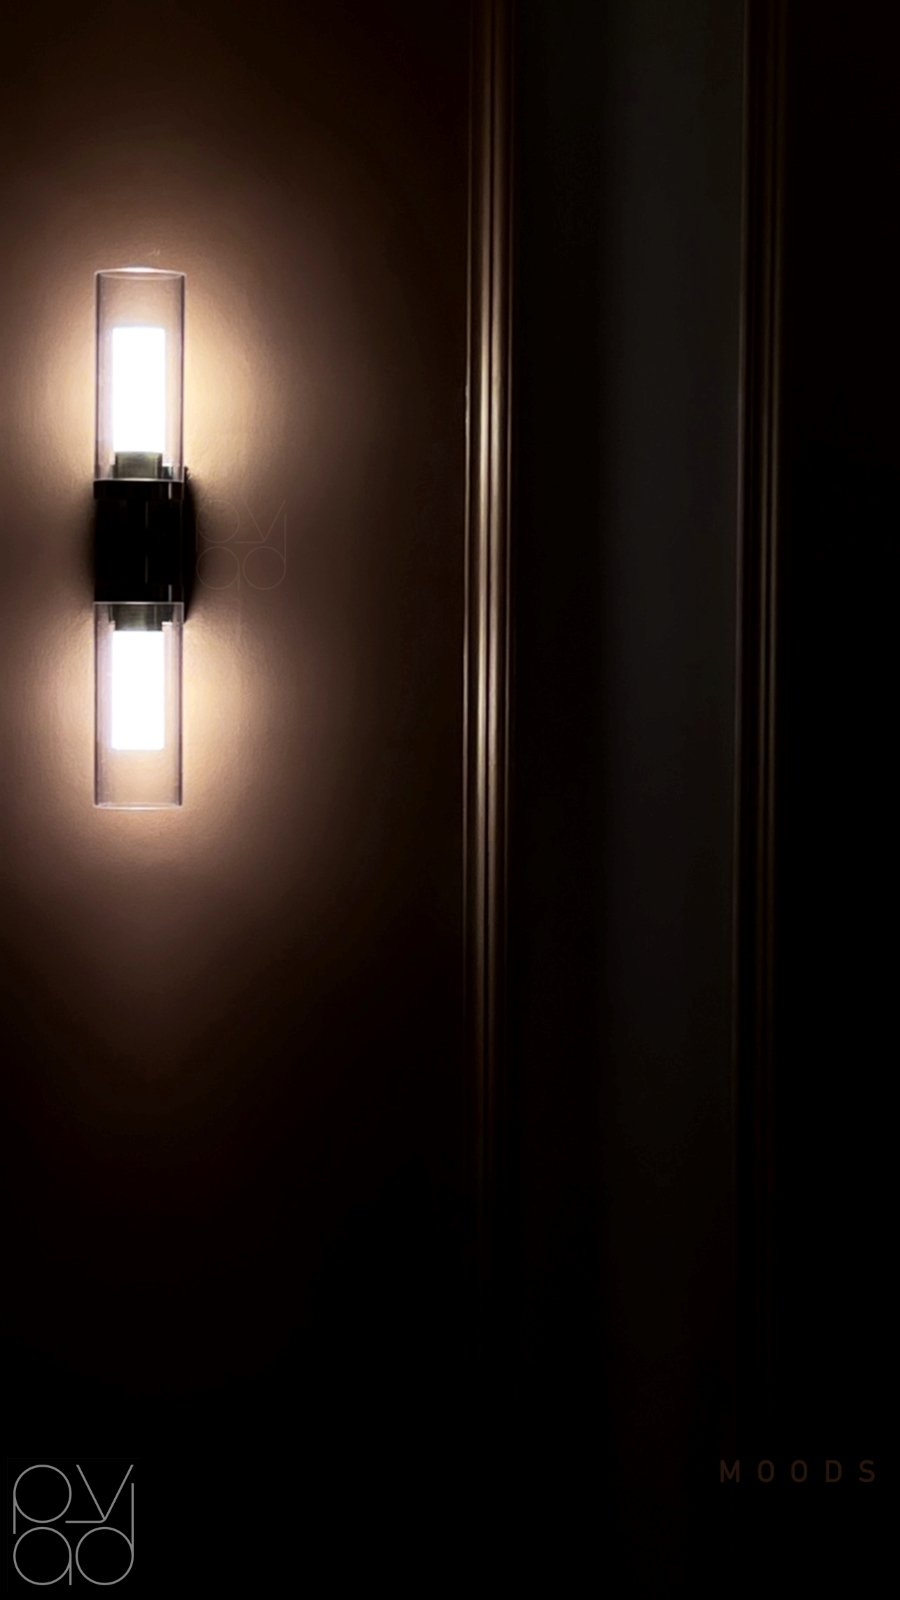
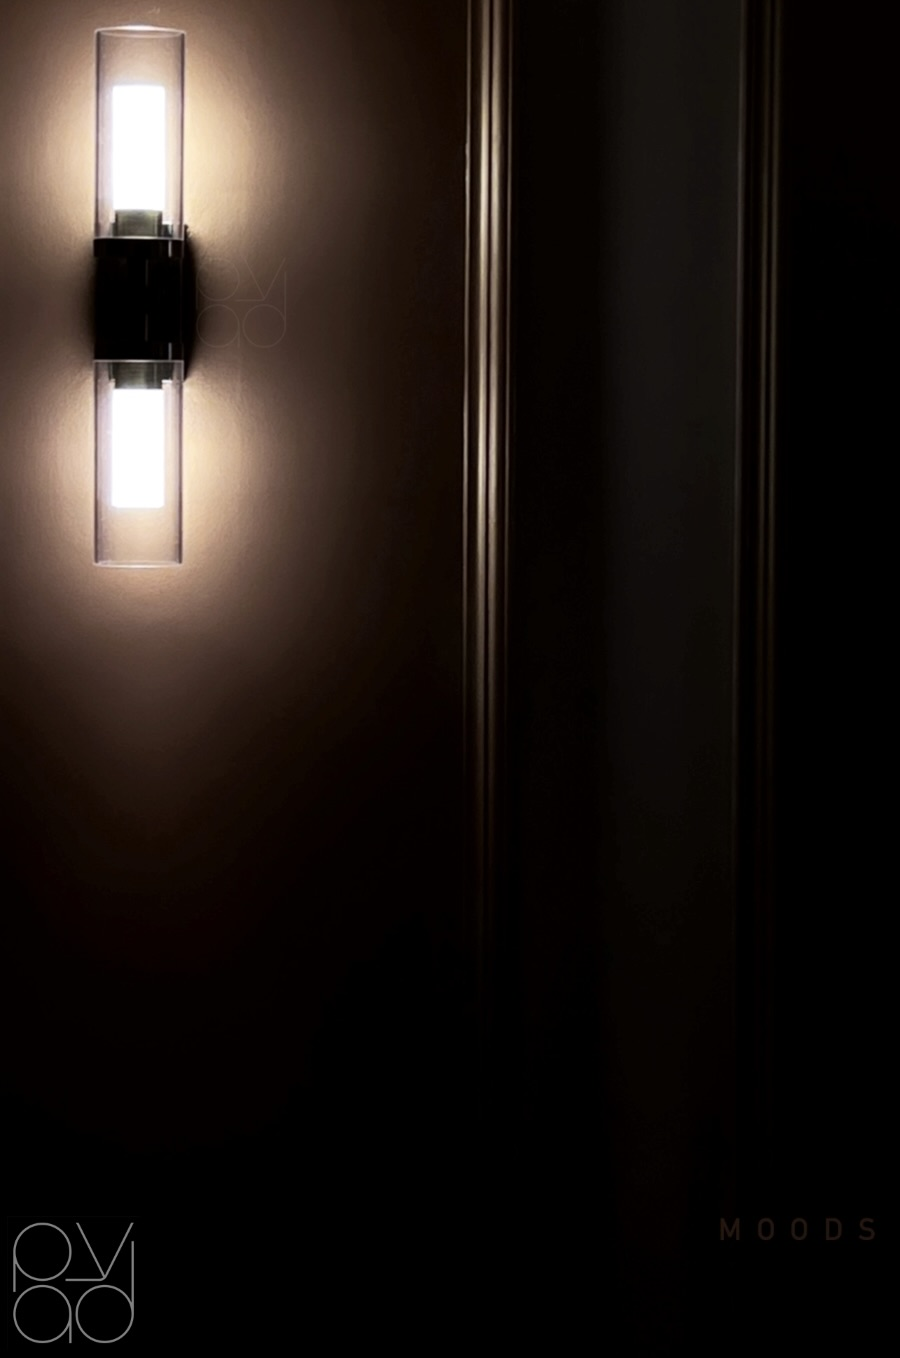
Updated the image fit part and enabled modal gallery view

diff --git a/index.html b/index.html
@@ -21,7 +21,7 @@
     <link rel="stylesheet" href="css/tooplate-style.css">   
 
     <script src="https://cdn.jsdelivr.net/npm/swiper@9/swiper-element-bundle.min.js"></script>
-
+    <script src="https://unpkg.com/swiper/swiper-bundle.min.js"></script>
     <!-- HTML5 shim and Respond.js for IE8 support of HTML5 elements and media queries -->
     <!-- WARNING: Respond.js doesn't work if you view the page via file:// -->
         <!--[if lt IE 9]>
@@ -47,15 +47,15 @@
                         </button>
                         <div class="collapse navbar-toggleable-md text-xs-center text-uppercase tm-navbar" id="tmNavbar">
                             <ul class="nav navbar-nav">
-                                 <li class="nav-item active selected">
-                                    <!-- <a href="#0" data-no="1"><span class="sr-only">(current)</span></a> -->
-                                </li>                                
+                                <li class="nav-item active selected">
+                                    <a class="nav-link" href="#0" data-no="1">Home<span class="sr-only">(current)</span></a>
+                                </li>                               
                                 <li class="nav-item">
-                                    <a class="nav-link" href="#0" data-no="2">Residential</a>
+                                    <a class="nav-link" href="#0" data-no="2">Our Work</a>
                                 </li>
                                 <li></li>
                                 <li class="nav-item">
-                                    <a class="nav-link" href="#0" data-no="4">About</a>
+                                    <a class="nav-link" href="#0" data-no="4">About Us</a>
                                 </li>
                                 <li class="nav-item">
                                     <a class="nav-link" href="#0" data-no="5">Keep in touch</a>
@@ -97,7 +97,7 @@
                         <div class="container-fluid js-tm-page-content" data-page-no="2" data-page-type="gallery">
                             <div class="tm-img-gallery-container">
                                 <div class="tm-img-gallery gallery-two">
-                                    
+                                    <!-- Gallery Two pop up connected with JS code below -->
                                     <div class="grid-item">
                                         <figure class="effect-bubba">
                                             <img src="img/KHEMANI RESIDENCE/1.jpg" alt="Image" class="img-fluid tm-img">
@@ -318,7 +318,7 @@
                                             </figcaption>
                                         </figure>
                                     </div>
-                                    <div class="grid-item">
+                                    <!-- <div class="grid-item">
                                         <figure class="effect-bubba">
                                             <video src="img/KP RESIDENCE 7TH/IMG_3358.mov" alt="Image" class="img-fluid tm-img"></video>
                                             <figcaption>
@@ -327,7 +327,7 @@
                                                 <a href="img/KP RESIDENCE 7TH/IMG_3358.mov">View more</a>
                                             </figcaption>
                                         </figure>
-                                    </div>
+                                    </div> -->
                                     <div class="grid-item">
                                         <figure class="effect-bubba">
                                             <img src="img/MAHATRE RESIDENCE 5TH/1.jpg" alt="Image" class="img-fluid tm-img">
@@ -408,7 +408,7 @@
                                             </figcaption>
                                         </figure>
                                     </div>
-                                    <div class="grid-item">
+                                    <!-- <div class="grid-item">
                                         <figure class="effect-bubba">
                                             <video src="img/MAHATRE RESIDENCE 5TH/IMG_1505.MOV" alt="Image" class="img-fluid tm-img"></video>
                                             <figcaption>
@@ -417,7 +417,7 @@
                                                 <a href="img/MAHATRE RESIDENCE 5TH/IMG_1505.MOV">View more</a>
                                             </figcaption>
                                         </figure>
-                                    </div>
+                                    </div> -->
                                     <div class="grid-item">
                                         <figure class="effect-bubba">
                                             <img src="img/PHANSE RESIDENCE/1.jpg" alt="Image" class="img-fluid tm-img">
@@ -618,7 +618,7 @@
                                             </figcaption>
                                         </figure>
                                     </div>
-                                    <div class="grid-item">
+                                    <!-- <div class="grid-item">
                                         <figure class="effect-bubba">
                                             <video src="img/PHATAK RESIDENCE 9TH/11.mov" alt="Image" class="img-fluid tm-img"></video>
                                             <figcaption>
@@ -637,8 +637,8 @@
                                                 <a href="img/PHATAK RESIDENCE 9TH/12.mov">View more</a>
                                             </figcaption>
                                         </figure>
-                                    </div>
-                                    <div class="grid-item">
+                                    </div> -->
+                                    <!-- <div class="grid-item">
                                         <figure class="effect-bubba">
                                             <video src="img/PHATAK RESIDENCE 9TH/13.mov" alt="Image" class="img-fluid tm-img"></video>
                                             <figcaption>
@@ -647,7 +647,7 @@
                                                 <a href="img/PHATAK RESIDENCE 9TH/13.mov">View more</a>
                                             </figcaption>
                                         </figure>
-                                    </div>
+                                    </div> -->
                                     <div class="grid-item">
                                         <figure class="effect-bubba">
                                             <img src="img/WADA/1.jpg" alt="Image" class="img-fluid tm-img">
@@ -960,7 +960,7 @@
                         <div class="container-fluid js-tm-page-content" data-page-no="3" data-page-type="gallery">                        
                             <div class="tm-img-gallery-container">
                                 <div class="tm-img-gallery gallery-three">
-                                 Gallery Two pop up connected with JS code below 
+                                  Gallery Two pop up connected with JS code below 
                                     
                                     <div class="tm-img-gallery-info-container">                                    
                                         <h2 class="tm-text-title tm-gallery-title"><span class="tm-white">Third Multi Gallery</span></h2>
@@ -1048,7 +1048,7 @@
                                         </figure>
                                     </div>                                                                                                 
                                 </div>                                 
-                            </div> .tm-img-gallery-container
+                            </div>
                         </div>         
                     </div>  
                 </li> -->
@@ -1174,9 +1174,7 @@
                     <a href="https://www.instagram.com/pyad.in/" class="tm-social-link"><i class="fa fa-instagram"></i></a>
                     <a href="https://wa.me/919833862678?text=Hello,%20I%20am%20interested%20in%20your%20services!" class="tm-social-link"><i class="fa fa-whatsapp"></i></a>
                     <a href="mailto:pyarchidesign@gmail.com" class="tm-social-link"><i class="fa fa-envelope"></i></a>
-                </div>
-                <!-- https://api.whatsapp.com/send?phone=+9600333267&text=I%20am%20interested%20in%20your%20services -->
-                
+                </div>                
                 <!-- <p class="tm-copyright-text">Copyright &copy; 2017 Your Company 
                 
                  - Design: Tooplate</p> -->
@@ -1247,19 +1245,19 @@
 
                 /* Gallery One pop up
                 -----------------------------------------*/
-                $('.gallery-one').magnificPopup({
-                    delegate: 'a', // child items selector, by clicking on it popup will open
-                    type: 'image',
-                    gallery:{enabled:true}                
-                });
-				
-				/* Gallery Two pop up
-                -----------------------------------------*/
-				// $('.gallery-two').magnificPopup({
-                //     delegate: 'a',
+                // $('.gallery-one').magnificPopup({
+                //     delegate: 'a', // child items selector, by clicking on it popup will open
                 //     type: 'image',
                 //     gallery:{enabled:true}                
                 // });
+				
+				/* Gallery Two pop up
+                -----------------------------------------*/
+				$('.gallery-two').magnificPopup({
+                    delegate: 'a',
+                    type: 'image',
+                    gallery:{enabled:true}                
+                });
 
                 /* Gallery Three pop up
                 -----------------------------------------*/
@@ -1333,6 +1331,29 @@
                 loadGoogleMap(); // Google Map
             });
 
+            // changeing slides per view depending on screen size
+            var swiper = new Swiper('swiper-container', {
+            // Initial configuration with default slidesPerView value
+            slidesPerView: 3,
+            simulateTouch: true
+            // Other Swiper options...
+            });
+
+            // Function to update slidesPerView value based on page size
+            function updateSlidesPerView() {
+            if (window.innerWidth < 768) {
+                swiper.params.slidesPerView = 1; // Adjust the value for smaller screens
+            } else if (window.innerWidth < 992) {
+                swiper.params.slidesPerView = 2; // Adjust the value for medium-sized screens
+            } else {
+                swiper.params.slidesPerView = 3; // Default value for larger screens
+            }
+            swiper.update(); // Update the Swiper instance with new configuration
+            }
+
+            // Call the function initially and whenever the window is resized
+            updateSlidesPerView();
+            window.addEventListener('resize', updateSlidesPerView);
         </script>            
 
 </body>

diff --git a/css/tooplate-style.css b/css/tooplate-style.css
@@ -507,10 +507,13 @@ border-top-color: #f9c922; /* Chrome, Opera 15+, Safari 5+ */ animation: spin 1.
     position: relative;
     overflow: hidden;
     text-align: center;
+	height: 480px;
 }
 
 figure.effect-bubba {
     background-color: #ffffff;
+	display: flex;
+	align-items: center;
 }
 
 .cd-hero-slider .selected .cd-full-width figure.effect-bubba h2.tm-figure-title {
@@ -609,6 +612,7 @@ figure.effect-bubba:hover p {
     display: block;
     max-width: 100%;
     opacity: 0.8;
+	object-fit: contain;
 }
 
 .cd-hero-slider h2 { font-size: 1.5em; }
@@ -907,6 +911,7 @@ swiper-slide {
 	display: flex;
 	justify-content: center;
 	align-items: center;
+	height: 480px;
   }
 
 swiper-slide img {
